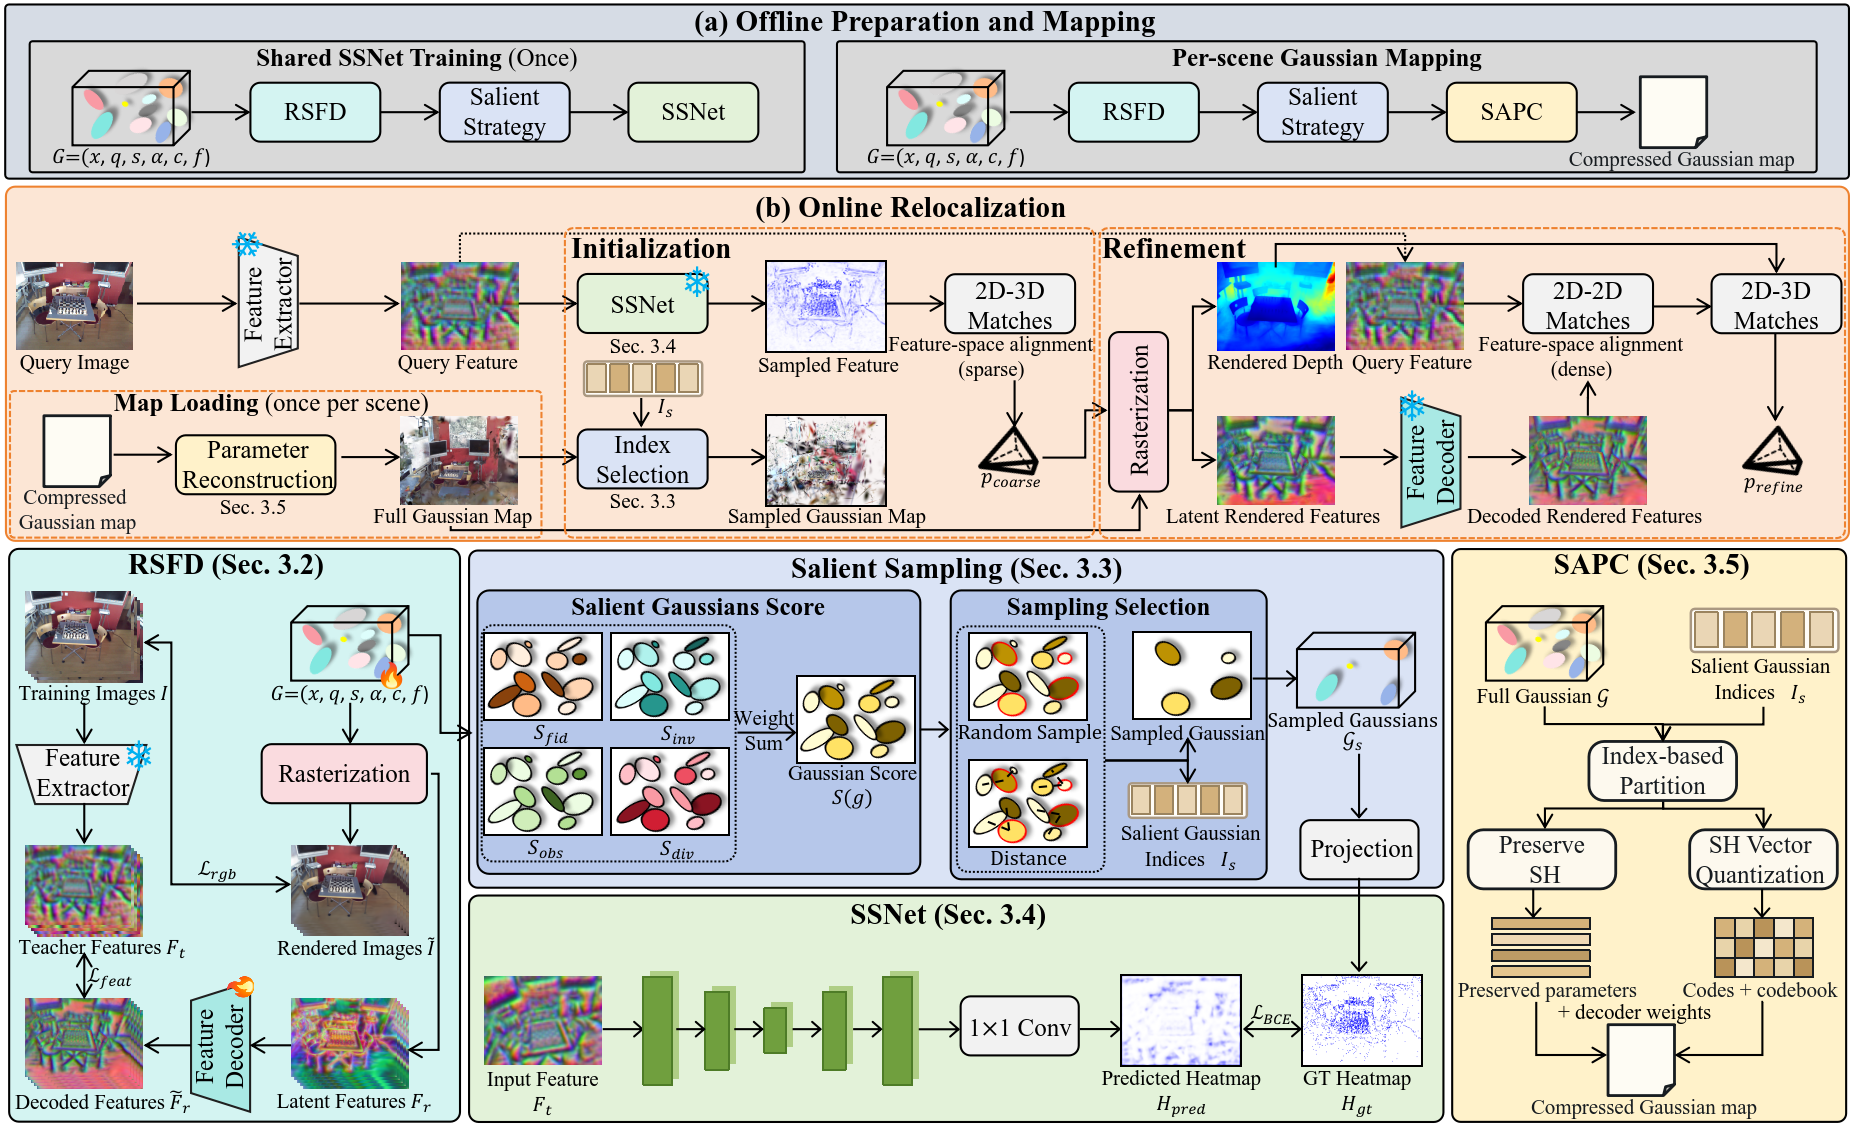
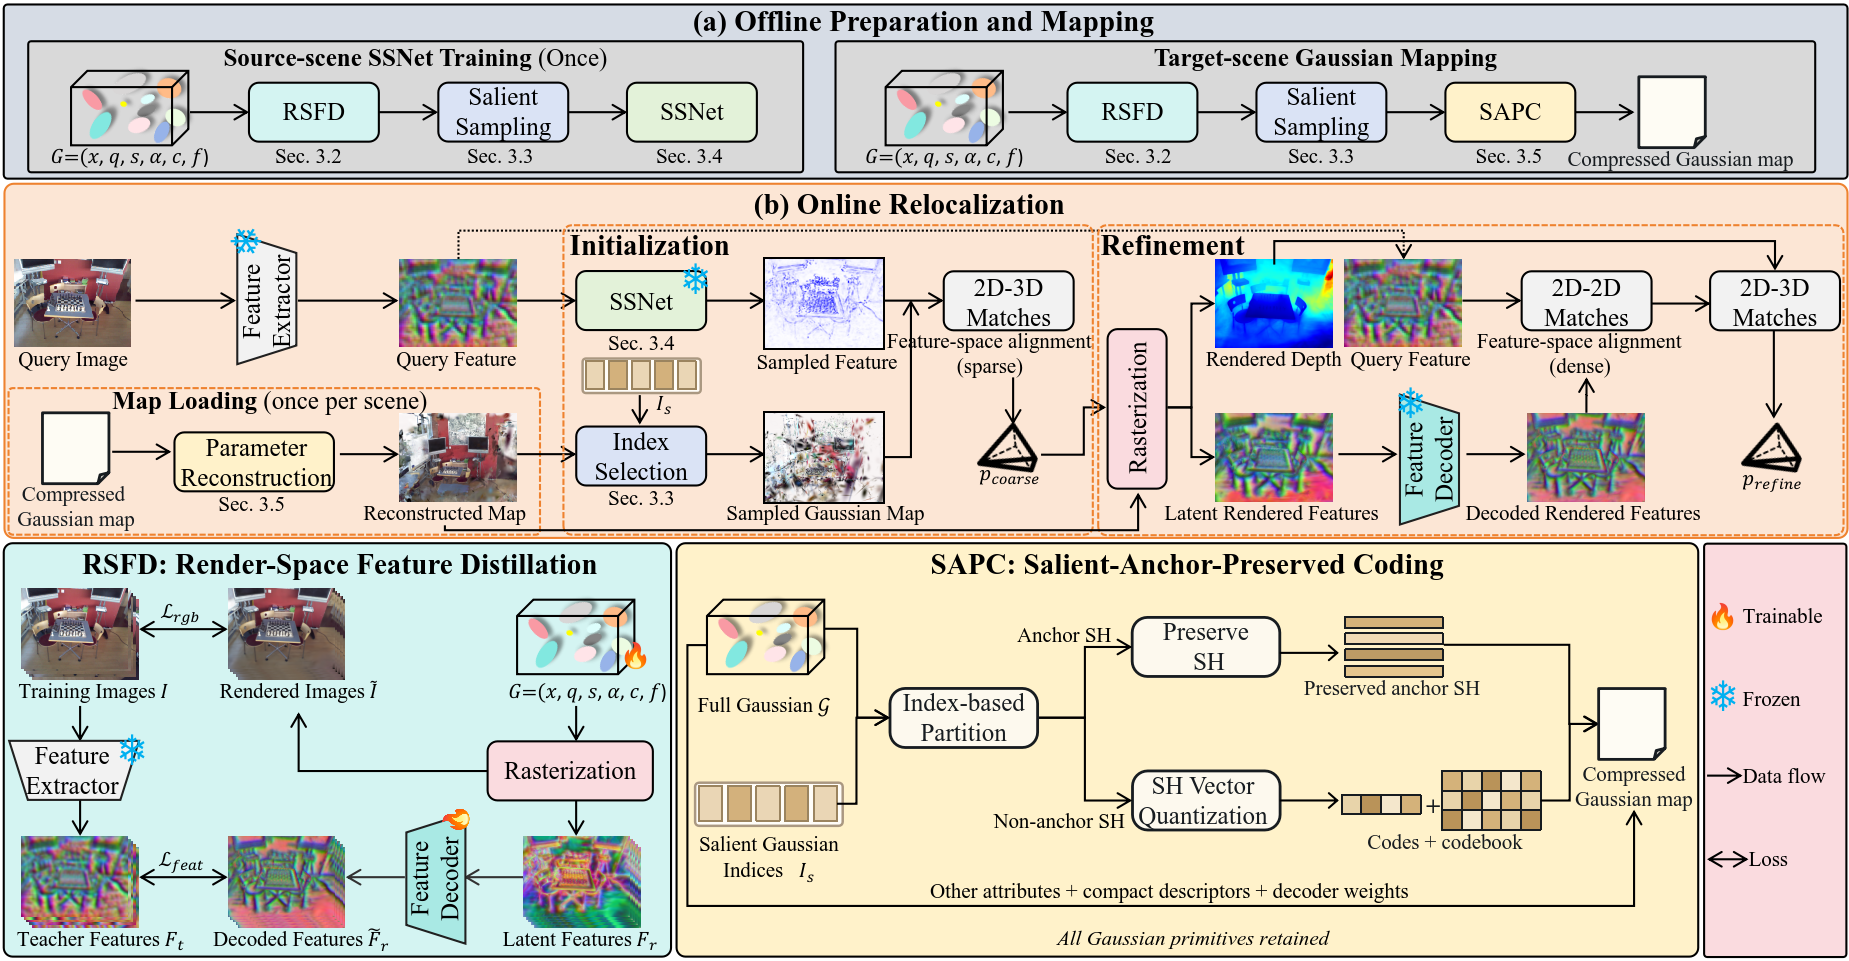
update training code

diff --git a/README.md b/README.md
@@ -1,6 +1,6 @@
 # FASIReloc-E: Localization-Aware Compact Feature Gaussian Maps for Transferable Camera Relocalization
 
-## Overiew
+## Overview
 
 ![image-20260822104806843](imgs/pipeline.png)
 
@@ -8,16 +8,23 @@
 
 ## Abstract
 
-Feature Gaussian maps support accurate camera relocalization, but their high-dimensional descriptors and appearance attributes introduce substantial optimization and storage costs. Moreover, conventional Gaussian compression does not consider the different roles of Gaussian primitives in sparse initialization and dense refinement. We present FASIReloc-E, an efficient camera relocalization framework that combines compact feature representations with localization-aware attribute coding.
-Building on our previous FASIReloc framework, salient Gaussian anchors and a transferable saliency predictor provide reliable 2D-3D correspondences for initial pose estimation, while the complete Gaussian scene supports dense refinement. To reduce feature-related costs, Render-Space Feature Distillation (RSFD) adapts existing render-then-decode learning to camera relocalization by learning compact Gaussian descriptors under supervision from a fixed teacher feature extractor. The rendered features are decoded into the teacher descriptor space for correspondence estimation.
-Salient-Anchor-Preserved Coding (SAPC) further reduces map storage by retaining compact descriptors for all Gaussians, preserving the spherical harmonic (SH) coefficients of salient anchors, and vector-quantizing those of non-salient Gaussians. All Gaussian primitives are retained for dense rendering and pose refinement.The saliency predictor transfers to unseen scenes without fine-tuning, while Gaussian maps and feature decoders are optimized separately for each target scene.
-Experiments on four public benchmarks demonstrate competitive localization accuracy together with substantial reductions in Gaussian optimization and storage costs.
+Reliable camera relocalization requires salient 3D landmarks for sparse pose initialization and sufficient scene coverage for dense refinement.
+Feature Gaussian maps support both stages but incur substantial optimization and storage costs due to high-dimensional descriptors.
+We present FASIReloc-E, an efficient relocalization framework that compresses Gaussian attributes according to their localization roles while retaining all Gaussian primitives.
+Render-Space Feature Distillation (RSFD) learns compact descriptors under supervision from a frozen SuperPoint teacher and decodes them into a shared feature space for sparse landmark matching and dense rendered-feature matching.
+Salient-Anchor-Preserved Coding (SAPC) extends the localization anchors introduced in FASIReloc to appearance preservation, retaining their spherical harmonic (SH) coefficients while vector-quantizing non-anchor SH coefficients.
+Compact localization descriptors are preserved without further vector quantization.
+A pretrained JamMa matcher supports dense correspondence refinement.
+The SSNet saliency predictor transfers to unseen scenes without fine-tuning, whereas Gaussian maps and feature decoders are optimized separately for each target scene.
+Experiments on four benchmarks demonstrate competitive localization accuracy with substantially improved representation efficiency.
+Ablations show that RSFD maintains reliable matching at both stages and that retaining non-anchor Gaussians with quantized SH provides higher pose recall than pruning at comparable map sizes.
+On 7 Scenes, FASIReloc-E reduces Gaussian optimization time, peak training GPU memory, and map storage by 71.1%, 52.1%, and 88.3%, respectively, compared with FASIReloc, while improving full-system recall at (2 cm, 2°) from 93.47% to 95.23%.
 
 
 
-## Comparison
+## Motivation
 
-![](imgs/comparision.png)
+![](imgs/motivation.png)
 
 
 
@@ -55,16 +62,25 @@ python -m pip install --no-build-isolation \
 
 ## Dataset
 
-**Data structure**
+**Data Preparation**
 
-We use six public datasets：
+We use six public datasets for training and evaluation.
 
-- [Scannet](https://github.com/ScanNet/ScanNet)
+**Source datasets for scene-independent SSNet training:**
+
+- [ScanNet](https://github.com/ScanNet/ScanNet)
 - [MegaDepth](https://www.cs.cornell.edu/projects/megadepth/)
+
+**Benchmark datasets for camera relocalization:**
+
 - [Microsoft 7-Scenes](https://www.microsoft.com/en-us/research/project/rgb-d-dataset-7-scenes/)
 - [Cambridge Landmarks](https://www.repository.cam.ac.uk/handle/1810/251342/)
 - [12 Scenes](https://graphics.stanford.edu/projects/reloc/)
 - [MARS](https://ai4ce.github.io/MARS/)
+
+
+
+**Data structure**
 
 All datasets are organized under the `datasets/` directory of the project page, following a unified directory structure:
 
@@ -80,7 +96,9 @@ datasets/
 └── ...
 ```
 
-**Scannet、MegaDepth**
+
+
+**ScanNet、MegaDepth**
 
 1. Download datasets following their official link.
 
@@ -158,7 +176,7 @@ datasets/
    unzip $dataset/12scenes_reference_models.zip -d $dataset
    # move sfm_gt to each dataset
    for scene in apt1/kitchen apt1/living apt2/bed apt2/kitchen apt2/living apt2/luke office1/gates362 office1/gates381 office1/lounge office1/manolis office2/5a office2/5b; 
-   do mkdir -p "$dataset/$scene/data/sparse" && cp -r $dataset/12scenes_reference_models/$scene/sfm_gt $dataset/$scene/sparse/0/ ;
+   do mkdir -p "$dataset/$scene/sparse" && cp -r $dataset/12scenes_reference_models/$scene/sfm_gt $dataset/$scene/sparse/0/ ;
    done
    ```
 
@@ -168,16 +186,50 @@ datasets/
 
 
 
+## Training
+
+````bash
+## Training
+
+### Step 1: Feature Gaussian Training
+
+Train feature Gaussian maps and scene-dependent SSNet.
+
+```bash
+# 7 Scenes
+bash scripts/train_dependent_7scenes.sh
+
+# Cambridge Landmarks
+bash scripts/train_dependent_cambridge.sh
+```
+
+### Step 2: Map Compression
+
+Compress the trained Gaussian maps using SAPC.
+
+```bash
+# 7 Scenes
+bash scripts/compress_7scenes.sh
+
+# Cambridge Landmarks
+bash scripts/compress_cambridge.sh
+```
+
+
+````
+
+
+
 ## Evaluation
 
 ````bash
 
 ## Evaluation
 
-Before evaluation, decompress the SAPC-compressed Gaussian maps and save the reconstructed `point_cloud.ply` files to their corresponding scene directories.
-Each map only needs to be decompressed once.
-
 ### Step 1: Map Decompression
+
+Reconstruct the SAPC-compressed Gaussian maps before evaluation.
+Each map only needs to be decompressed once.
 
 ```bash
 # 7 Scenes
@@ -189,15 +241,21 @@ bash scripts/decompress_cambridge.sh
 
 ### Step 2: Camera Relocalization
 
+**Scene-dependent**
+
 ```bash
-# Scene-dependent
 bash scripts/evaluate_dependent_7scenes.sh
 bash scripts/evaluate_dependent_cambridge.sh
+```
 
-# Scene-independent
+**Scene-independent**
+
+```bash
 bash scripts/evaluate_independent_7scenes.sh
 bash scripts/evaluate_independent_cambridge.sh
 ```
+
+Scene-independent evaluation requires SSNet checkpoints trained on source scenes without fine-tuning on target scenes.
 
 ````
 
@@ -205,5 +263,4 @@ bash scripts/evaluate_independent_cambridge.sh
 
 ## Code Availability
 
-During the review process, this repository provides the map decompression, inference, and evaluation code for FASIReloc-E under both scene-dependent and scene-independent settings. The current release supports camera relocalization using SAPC-compressed Gaussian maps, which are reconstructed before evaluation. The code for Gaussian map training, feature distillation, and compression will be made publicly available upon acceptance of the paper.
-
+During the review process, we provide Gaussian map training, feature distillation, compression, decompression, and evaluation code for 7 Scenes and Cambridge Landmarks under both localization settings. For scene-independent SSNet training, please refer to our conference version [FASIReloc](https://github.com/junhaowei0524/FASIReloc). The remaining materials will be made publicly available upon acceptance of the paper.
